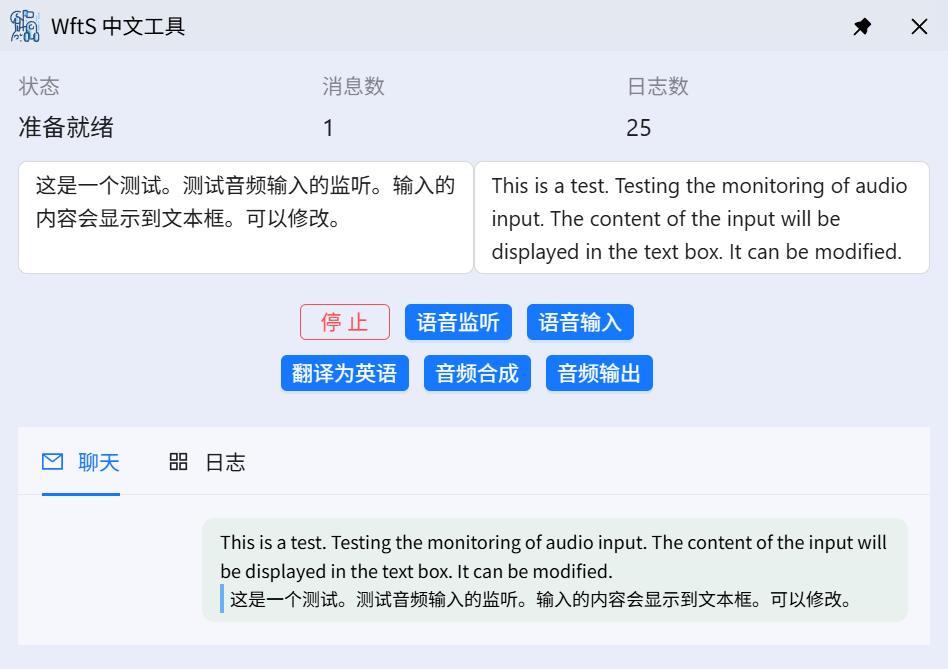
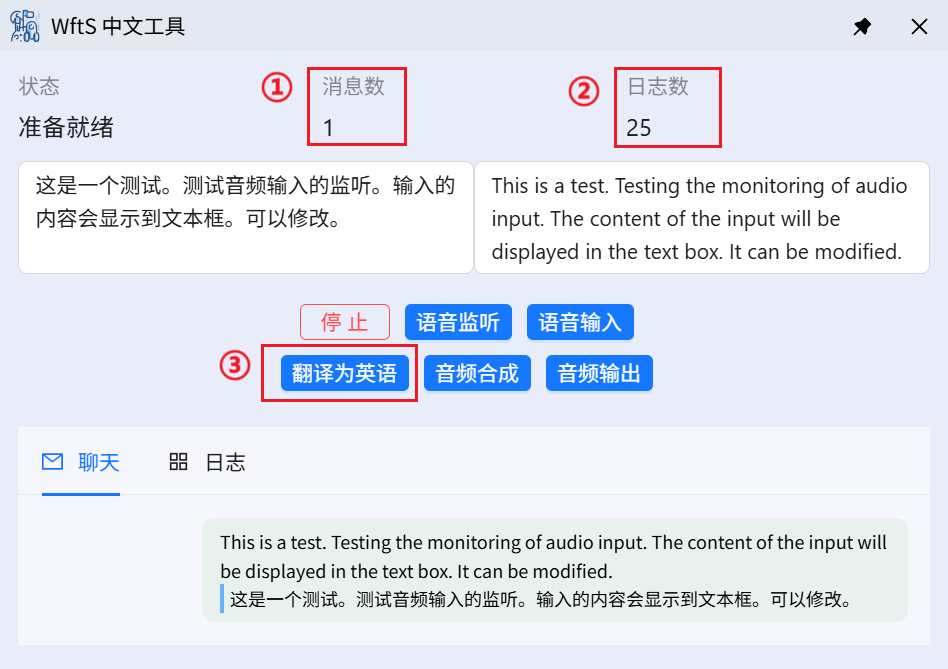
feat(tool): 升级软件至 0.2.0 版本并添加新功能
- 添加聊天记录和日志记录的导出与清空功能
- 新增英语翻译后立即进行音频合成的选项
- 更新 README 文档和 CHANGELOG.md

diff --git a/src/renderer/src/components/Comm.vue b/src/renderer/src/components/Comm.vue
@@ -4,12 +4,40 @@
       <a-col :span="8">
         <a-statistic title="状态" :value="status_zh" :value-style="{fontSize:'16px'}"/>
       </a-col>
-      <a-col :span="8">
-        <a-statistic title="消息数" :value="messages.length" :value-style="{fontSize:'16px'}"/>
-      </a-col>
-      <a-col :span="8">
-        <a-statistic title="日志数" :value="logs.length" :value-style="{fontSize:'16px'}"/>
-      </a-col>
+      <a-popover title="消息选项">
+        <template #content>
+          <a-button
+            type="primary"
+            size="small"
+            @click="exportData(false)"
+          >导出消息</a-button>
+          <a-button
+            danger ghost
+            size="small"
+            @click="clearData(false)"
+          >清空消息</a-button>
+        </template>
+        <a-col :span="8">
+          <a-statistic title="消息数" :value="messages.length" :value-style="{fontSize:'16px'}"/>
+        </a-col>
+      </a-popover>
+      <a-popover title="日志选项">
+        <template #content>
+          <a-button
+            type="primary"
+            size="small"
+            @click="exportData(true)"
+          >导出日志</a-button>
+          <a-button
+            danger ghost
+            size="small"
+            @click="clearData(true)"
+          >清空日志</a-button>
+        </template>
+        <a-col :span="8">
+          <a-statistic title="日志数" :value="logs.length" :value-style="{fontSize:'16px'}"/>
+        </a-col>
+      </a-popover>
     </a-row>
     <a-row>
       <a-col :span="12">
@@ -70,12 +98,16 @@
             <a-radio-button value="ollama">Ollama模型</a-radio-button>
           </a-radio-group>          
         </div>
-        <div>
+        <div style="margin-bottom: 10px;">
           <span class="label">模型名称</span>
           <a-input
             v-model:value="modelName" placeholder="模型名称"
             style="width: 190px;"
           />          
+        </div>
+        <div>
+          <span style="margin-right: 10px;">翻译后立即进行合成</span>
+          <a-switch v-model:checked="immSynthesis"/>
         </div>
       </template>
       <a-button
@@ -108,11 +140,11 @@ const modelName = ref('qwen-max')
 
 const dataStore = useDataStore()
 const {
-  status, answer_zh ,answer_en, messages, logs, status_zh
+  status, answer_zh ,answer_en,
+  messages, logs, status_zh, immSynthesis
 } = storeToRefs(dataStore)
 
 function send(cmd: string){
-  console.log('send', cmd)
   if(cmd === 'synthesis') {
     window.electron.ipcRenderer.send(`server.${cmd}`, answer_en.value)
     dataStore.addResponse()
@@ -125,6 +157,41 @@ function send(cmd: string){
   }
   else {
     window.electron.ipcRenderer.send(`server.${cmd}`)
+  }
+}
+
+function exportData(isLogs: boolean){
+  const timestamp = new Date().toISOString().replace(/[:.]/g, '-')
+  if(isLogs){
+    exportToJson(logs.value, `log_${timestamp}.json`)
+  }
+  else {
+    exportToJson(messages.value, `msg_${timestamp}.json`)
+  }
+}
+
+function exportToJson(data: any, filename: string) {
+  const jsonData = JSON.stringify(data, null, 2)
+  const blob = new Blob([jsonData], { type: 'application/json' })
+  const url = URL.createObjectURL(blob)
+  const a = document.createElement('a')
+  a.href = url
+  a.download = filename
+  document.body.appendChild(a)
+  a.click()
+  setTimeout(() => {
+    document.body.removeChild(a)
+    URL.revokeObjectURL(url)
+  }, 100)
+}
+
+
+function clearData(isLogs: boolean){
+  if(isLogs) {
+    logs.value = []
+  }
+  else {
+    messages.value = []
   }
 }
 </script>

diff --git a/src/renderer/src/stores/data.ts b/src/renderer/src/stores/data.ts
@@ -10,6 +10,7 @@ export const useDataStore = defineStore('data', () => {
   const answer_zh = ref<string>('')
   const messages = ref<Message[]>([])
   const logs = ref<ConsoleLog[]>([])
+  const immSynthesis = ref(false)
 
   const status_zh = computed(() => {
     switch(status.value){
@@ -76,6 +77,11 @@ export const useDataStore = defineStore('data', () => {
         answer_zh.value = msg.text
         answer_en_pre = ""
         answer_zh_pre = ""
+        if(immSynthesis.value) {
+          window.electron.ipcRenderer.send(`server.synthesis`, answer_en.value)
+          addResponse()
+        }
+        return
       }
       answer_en.value = answer_en_pre + msg.translation
       answer_zh.value = answer_zh_pre + msg.text
@@ -93,6 +99,7 @@ export const useDataStore = defineStore('data', () => {
     answer_zh,
     messages,
     logs,
+    immSynthesis,
     addResponse,
   }
 })

diff --git a/chat/sysaudio/output.py b/chat/sysaudio/output.py
@@ -18,7 +18,7 @@ def audio_output(audio: bytes) -> None:
     stream.write(audio)
     stream.close()
     p.terminate()
-    stdout("Audio played.")
+    # stdout("Audio played.")
 
 
 def audio_inject(audio: bytes) -> None:
@@ -37,7 +37,7 @@ def audio_inject(audio: bytes) -> None:
     if index == -1:
         stderr("CABLE Input (VB-Audio Virtual Cable) not found")
         return
-    stdout(json.dumps(p.get_device_info_by_index(index)))
+    # stdout(json.dumps(p.get_device_info_by_index(index)))
     stream = p.open(
         format=pyaudio.paInt16,
         channels=1,
@@ -46,7 +46,7 @@ def audio_inject(audio: bytes) -> None:
         output_device_index=index
     )
     stream.write(audio)
-    stdout("Audio injected.")
+    # stdout("Audio injected.")
 
 
 def play_both(audio: bytes) -> None:

diff --git a/README.md b/README.md
@@ -3,7 +3,7 @@
     <h1 align="center">wfts-chinese-tool</h1>
     <p>wfts-chinese-tool 为中文玩家准备的一个工具软件。用户可以通过该软件获取对话的中文翻译，用户还可以将中文语音转换为英语并输入到游戏中。</p>
     <p>
-      <a href="https://github.com/HiMeditator/wfts-chinese-tool/releases"><img src="https://img.shields.io/badge/release-0.1.0-blue"></a>
+      <a href="https://github.com/HiMeditator/wfts-chinese-tool/releases"><img src="https://img.shields.io/badge/release-0.2.0-blue"></a>
       <a href="https://github.com/HiMeditator/wfts-chinese-tool/issues"><img src="https://img.shields.io/github/issues/HiMeditator/wfts-chinese-tool?color=orange"></a>
       <img src="https://img.shields.io/github/languages/top/HiMeditator/wfts-chinese-tool?color=royalblue">
       <img src="https://img.shields.io/github/repo-size/HiMeditator/wfts-chinese-tool?color=green">
@@ -18,6 +18,7 @@
 - 中文输入英语翻译
 - 英语音频合成
 - 合成音频播放与注入
+- 聊天记录和日志导出
 
 ## 📥 软件下载
 
@@ -37,6 +38,12 @@
 - 第四个按钮：调用大语言模型将输入框左边的内容翻译成英语，这个翻译会比语音模型自带的翻译更准确。
 - 第五个按钮：将输入框右边的英语内容合成为音频。
 - 第六个按钮：将合成的音频同时进行播放和注入到 [VB Cable](https://vb-audio.com/Cable/) 虚拟音频设备中。
+
+除此之外，将鼠标悬浮到图中红色位置还有额外选项：
+
+- ①：导出聊天记录、清空聊天记录
+- ②：导出日志记录、清空日志记录
+- ③：选择翻译模型（阿里云大语言模型、本地Ollama模型），选择是否在翻译后立即合成对应音频
 
 **软件的功能比较灵活，可以用于游戏之外。**
 

diff --git a/docs/CHANGELOG.md b/docs/CHANGELOG.md
@@ -17,3 +17,11 @@
 - README 添加模型清单
 - 更新接口文档
 
+## v0.2.0
+
+2025-08-15
+
+### 新增功能
+
+- 添加聊天记录和日志记录的导出与清空
+- 添加英语翻译后立即进行音频合成的选项
